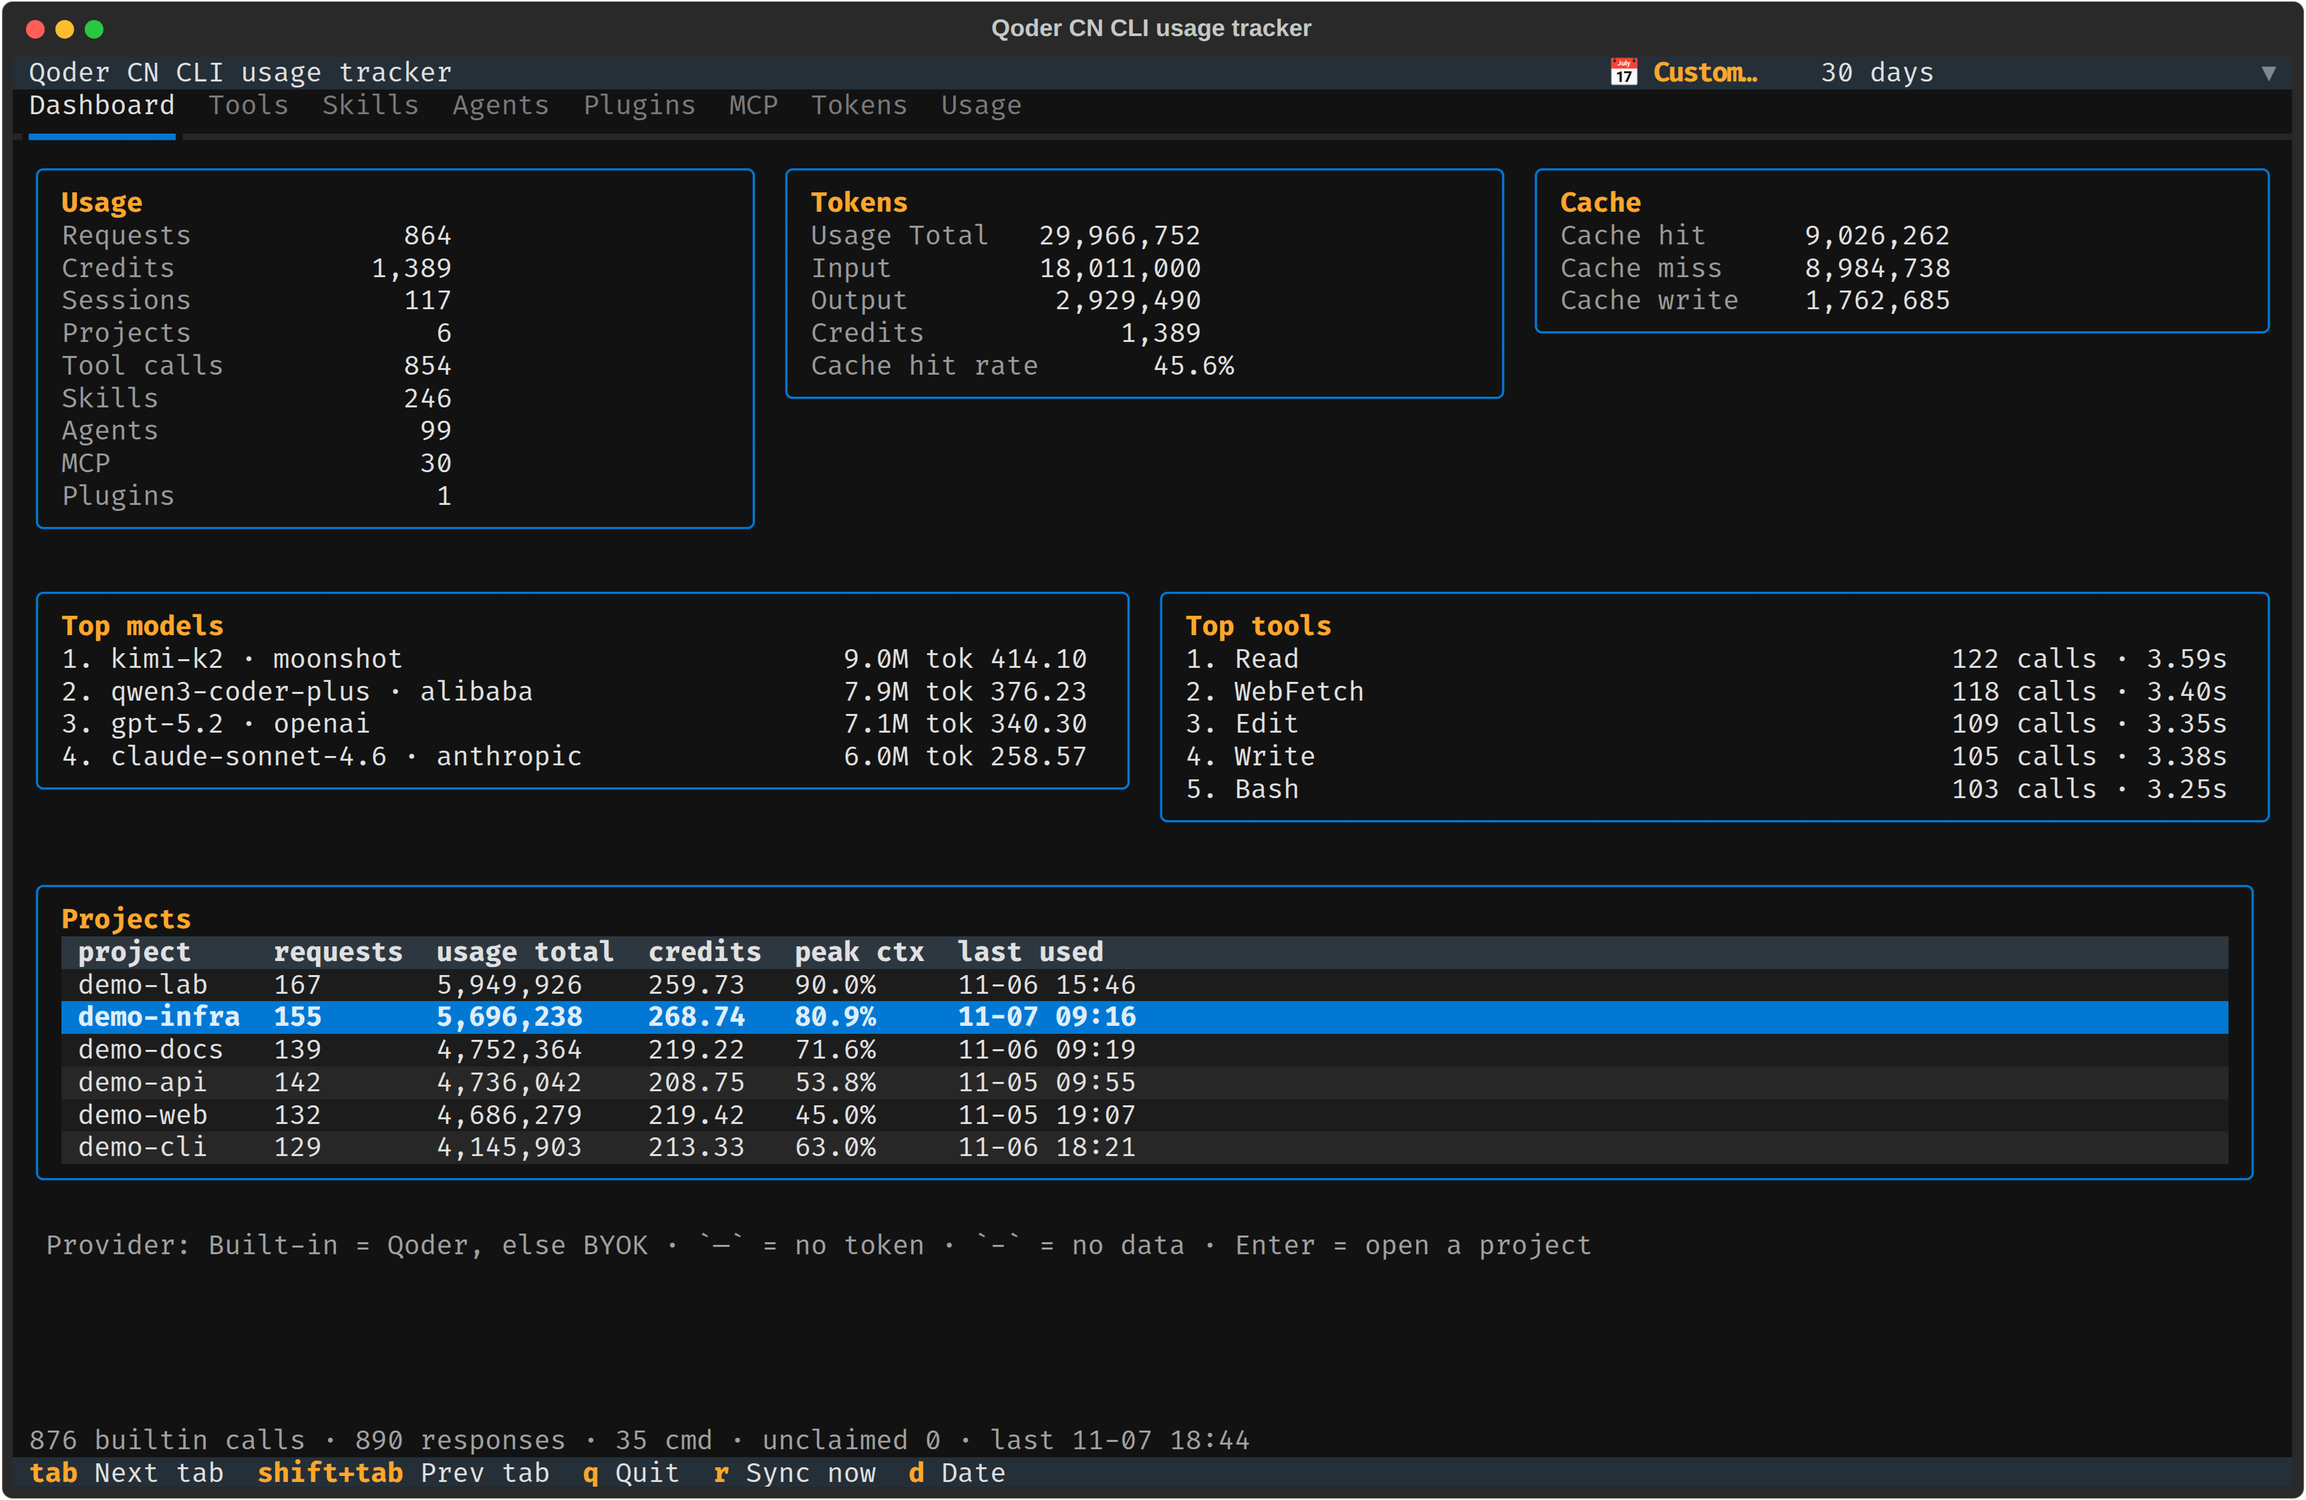
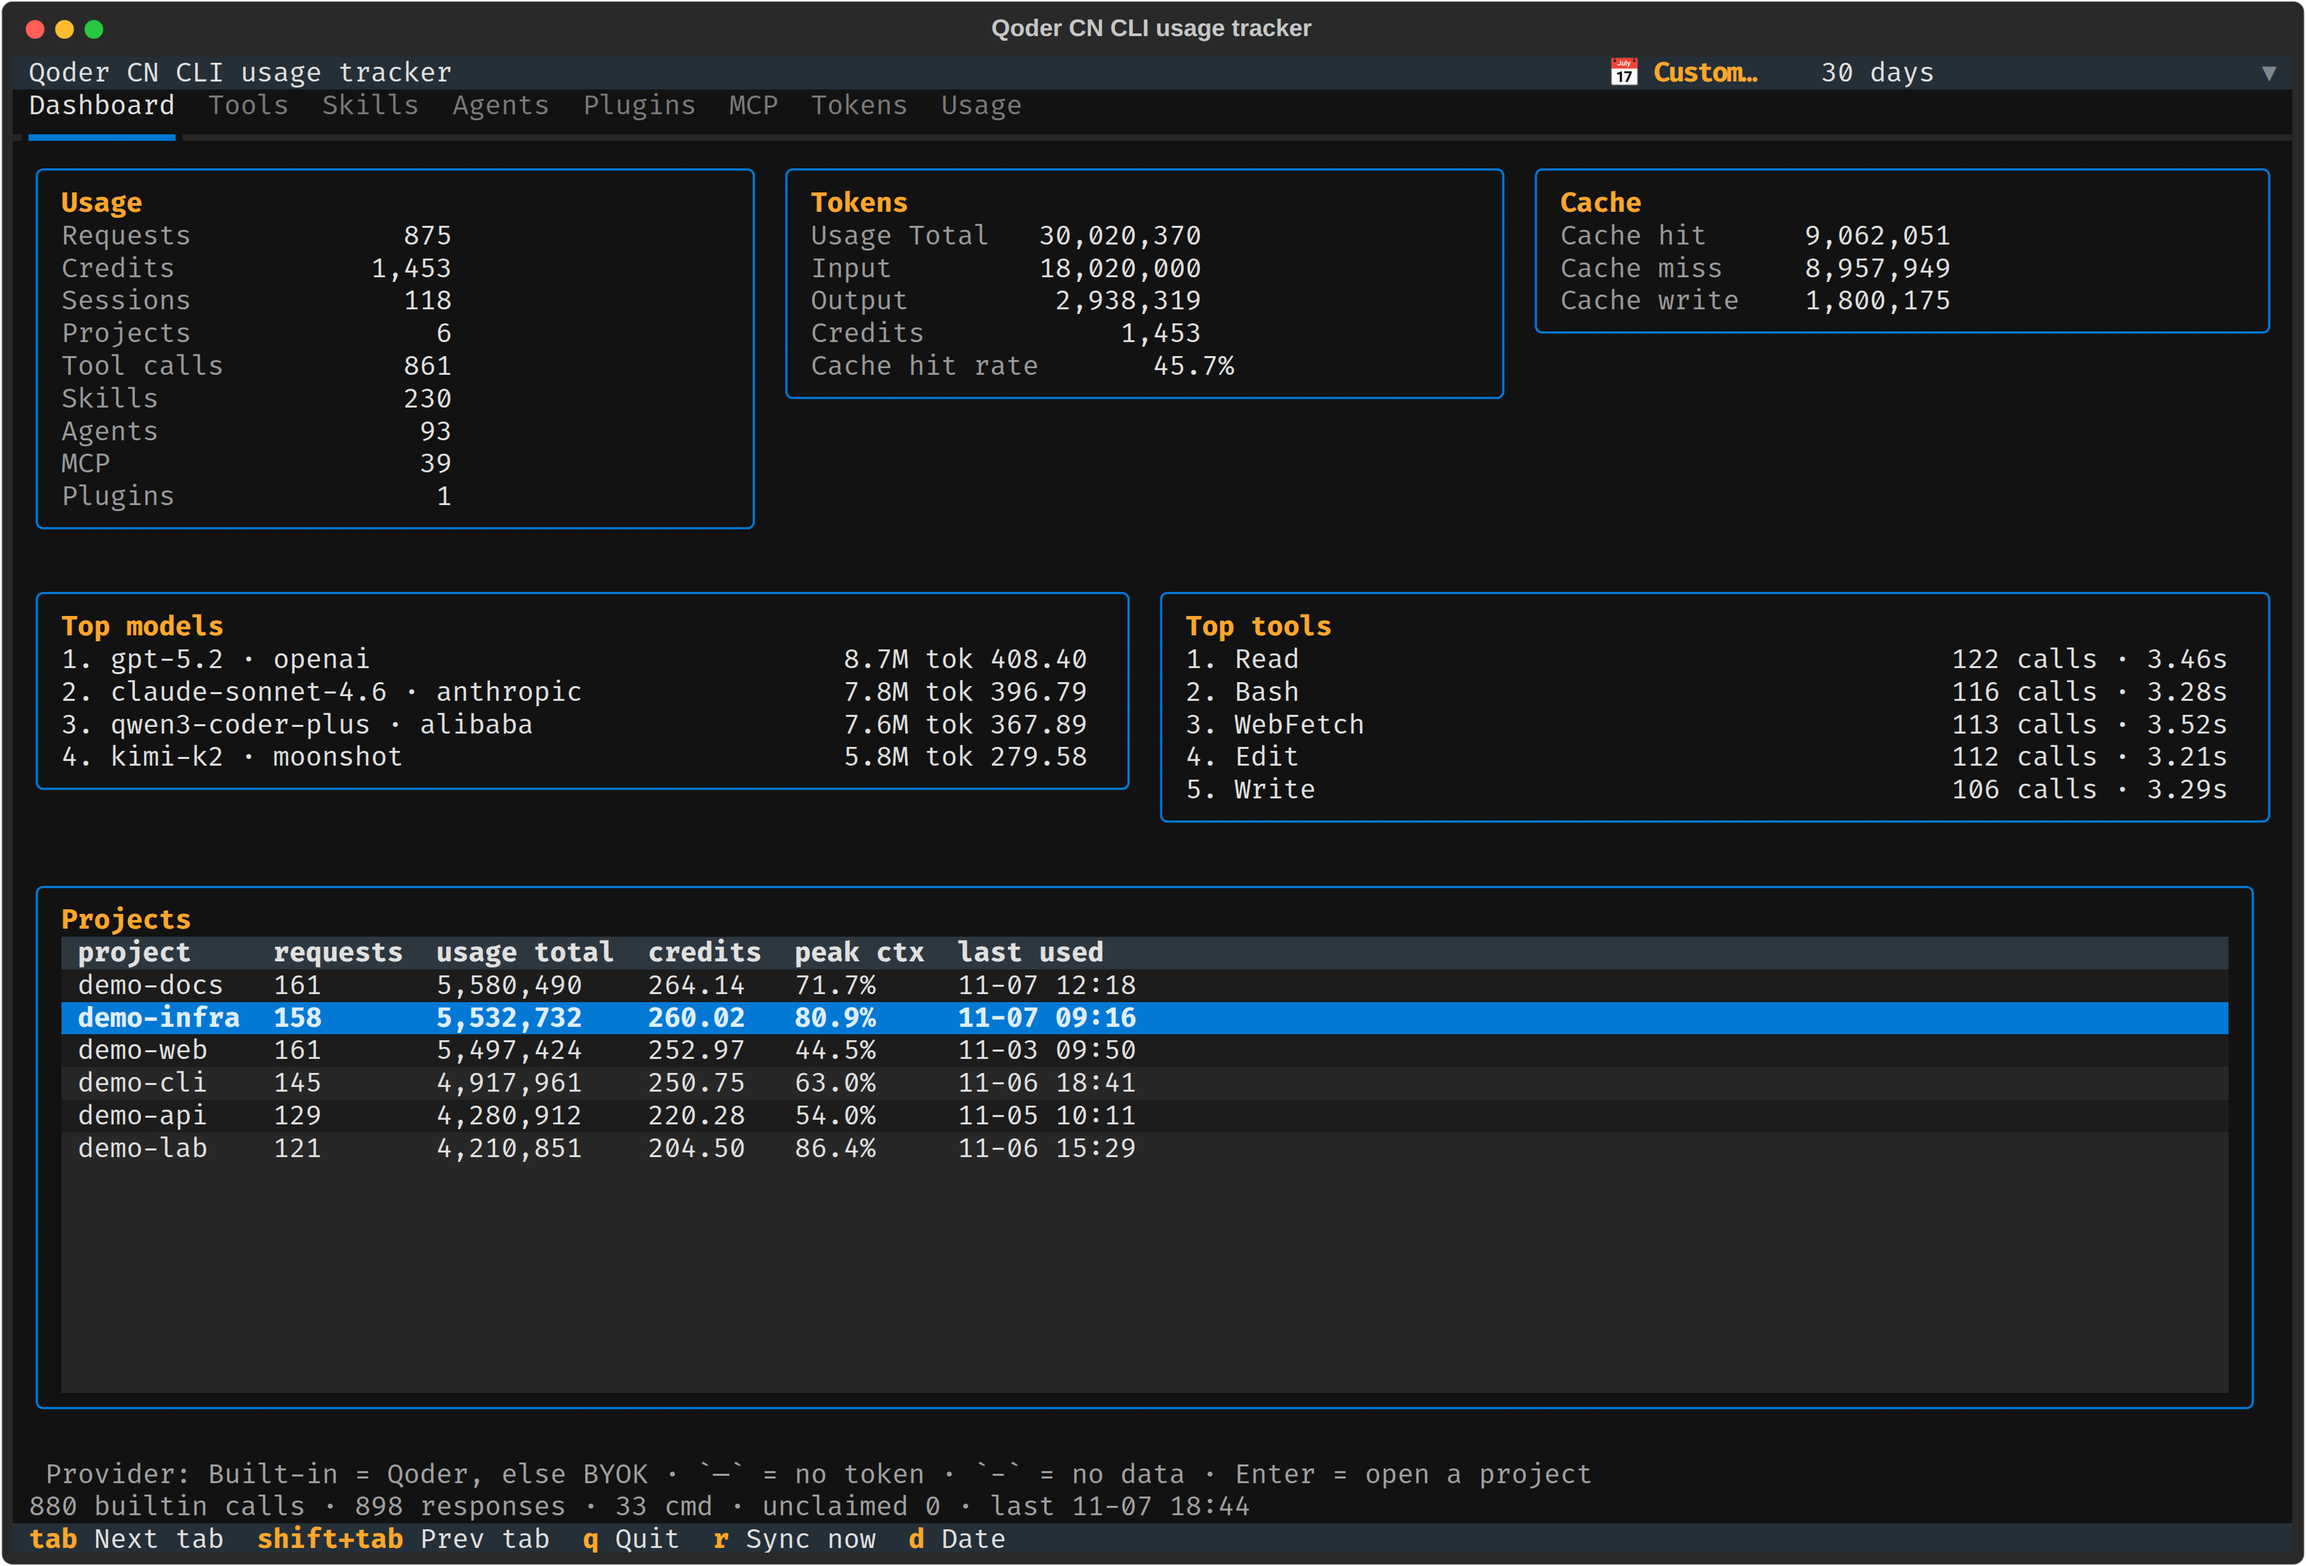
docs: walk every tab in the demo GIF and caption it
The clip now steps through the tabs in order instead of switching the range, and a caption under it names the action and what the feature shows. Both images were re-captured from a freshly seeded synthetic index with the host log and config directories redirected at empty /tmp paths, so no real tracker database was opened.

diff --git a/README.zh-CN.md b/README.zh-CN.md
@@ -100,7 +100,9 @@ Qoder CN 的 CLI 其实**已经写下了**你需要的数据——只是从不**
 
 ## 📊 八个标签页
 
-<p align="center"><img src="docs/screenshots/demo.gif" alt="切换统计窗口与标签页" width="900"></p>
+<p align="center"><img src="docs/screenshots/demo.gif" alt="依次切换 TUI 的八个标签页" width="900"></p>
+
+<p align="center"><em><b>动图内容：</b>从仪表盘开始，依次走完工具、技能、代理、插件、MCP、Token、用量八个标签页。<b>展示的功能：</b>一份 Qoder CN 用量索引的八种切法；顶栏的时间范围只作用于当前标签页，每个标签页各自记住自己的窗口。</em></p>
 
 打开即是**仪表盘**：一眼看清关键数字。标签页上方有一条共享的顶栏承载范围选择器与 📅 控件，**每个标签各存自己的范围**。**插件**页没有窗口——安装与否是既定事实，所以两个控件在那里都隐藏。窗口改变**计数**与显示哪些实体行，但绝不删除历史。选择 **Custom…** 或按 📅 会打开日期区间选择器，其 Confirm 只把选中的起止时间应用到当前标签。
 

diff --git a/README.md b/README.md
@@ -121,7 +121,9 @@ runtime overhead to the host.
 
 ## 📊 The eight tabs
 
-<p align="center"><img src="docs/screenshots/demo.gif" alt="Switching the window and opening a tab" width="900"></p>
+<p align="center"><img src="docs/screenshots/demo.gif" alt="Stepping through all eight tabs of the TUI" width="900"></p>
+
+<p align="center"><em><b>In the clip:</b> the tour starts on the Dashboard and steps through Tools, Skills, Agents, Plugins, MCP, Tokens and Usage. <b>What it shows:</b> one index of Qoder CN usage cut eight ways; the range selector in the top bar re-scopes only the tab you are on, so every tab keeps its own window.</em></p>
 
 The **Dashboard** opens first: an at-a-glance summary of the important numbers.
 A shared top bar above the tabs carries the range selector and the 📅 control,
